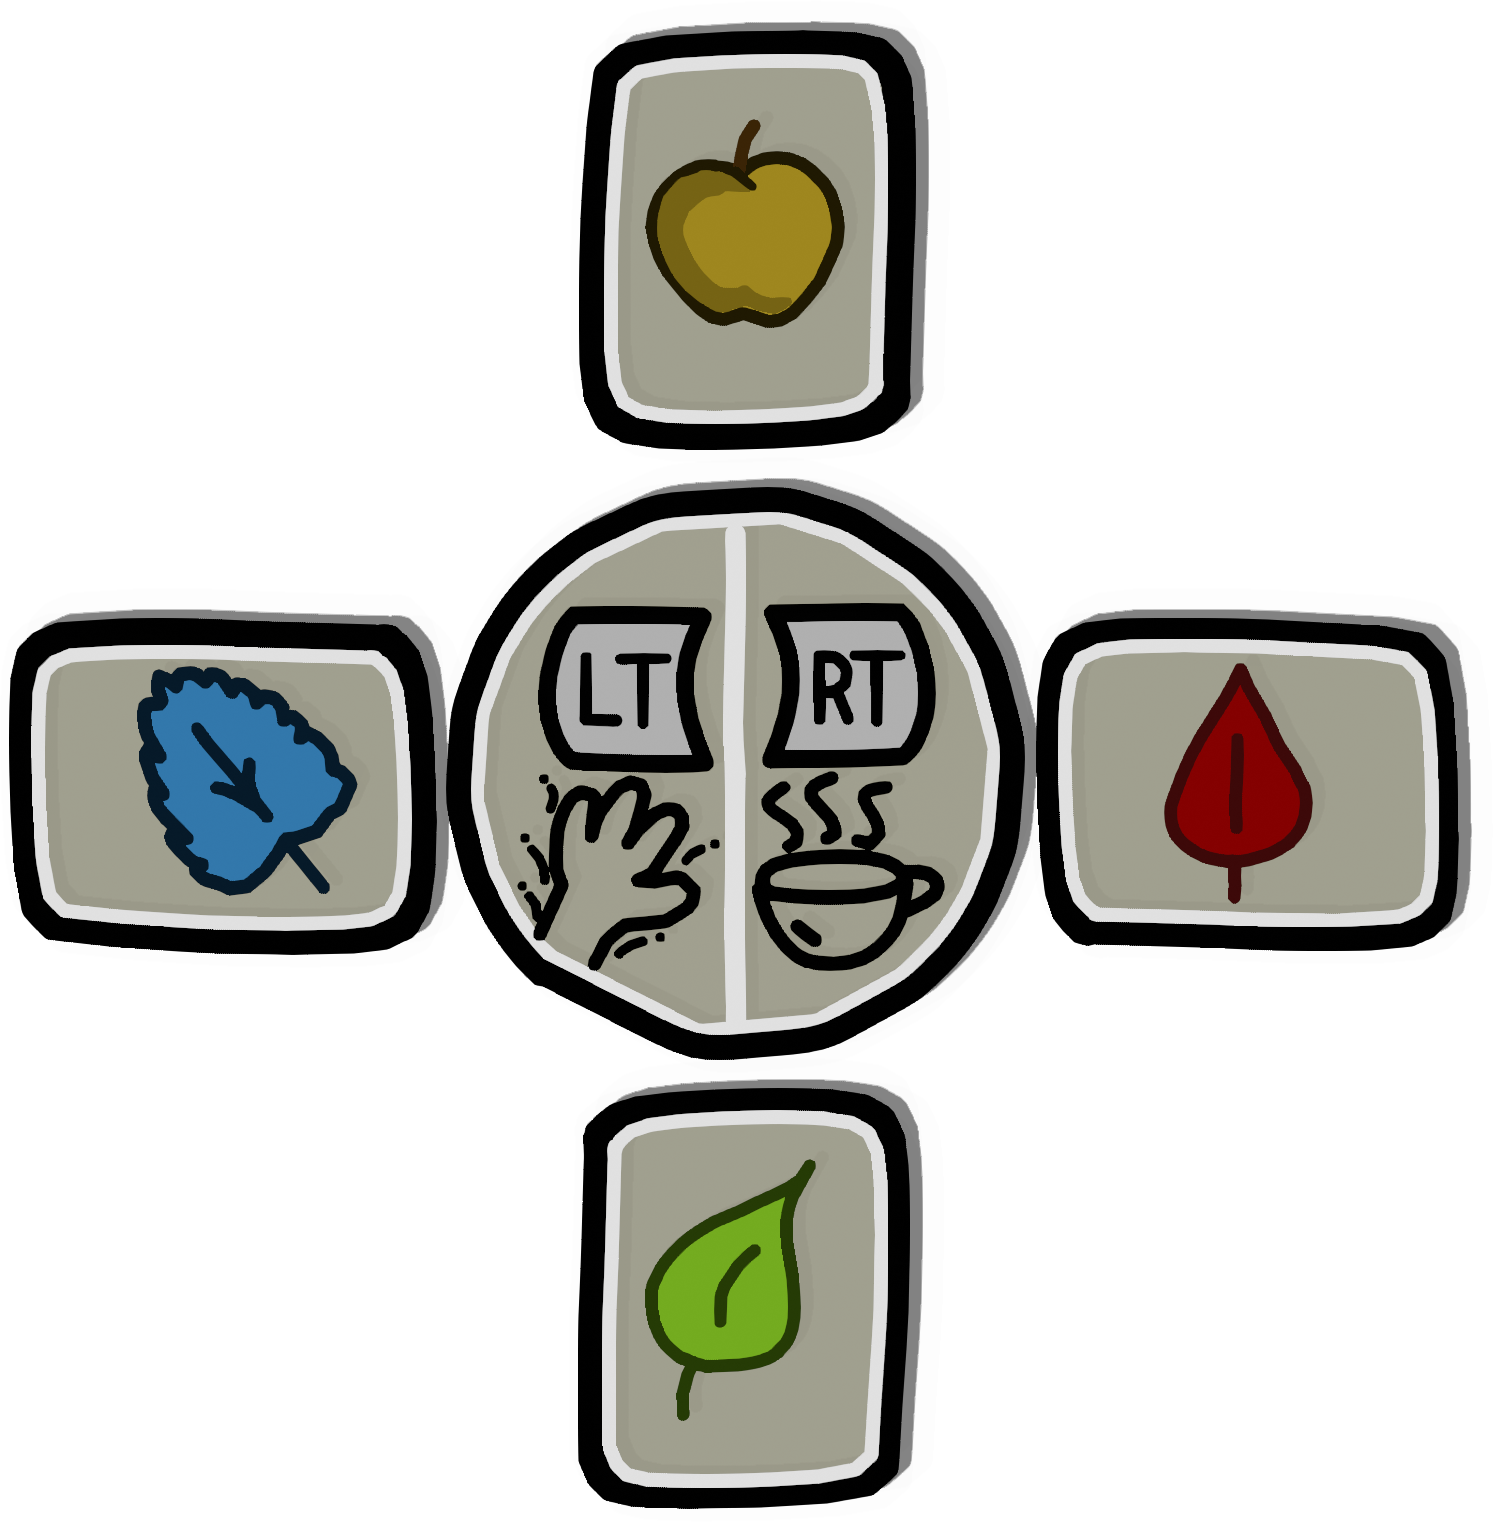
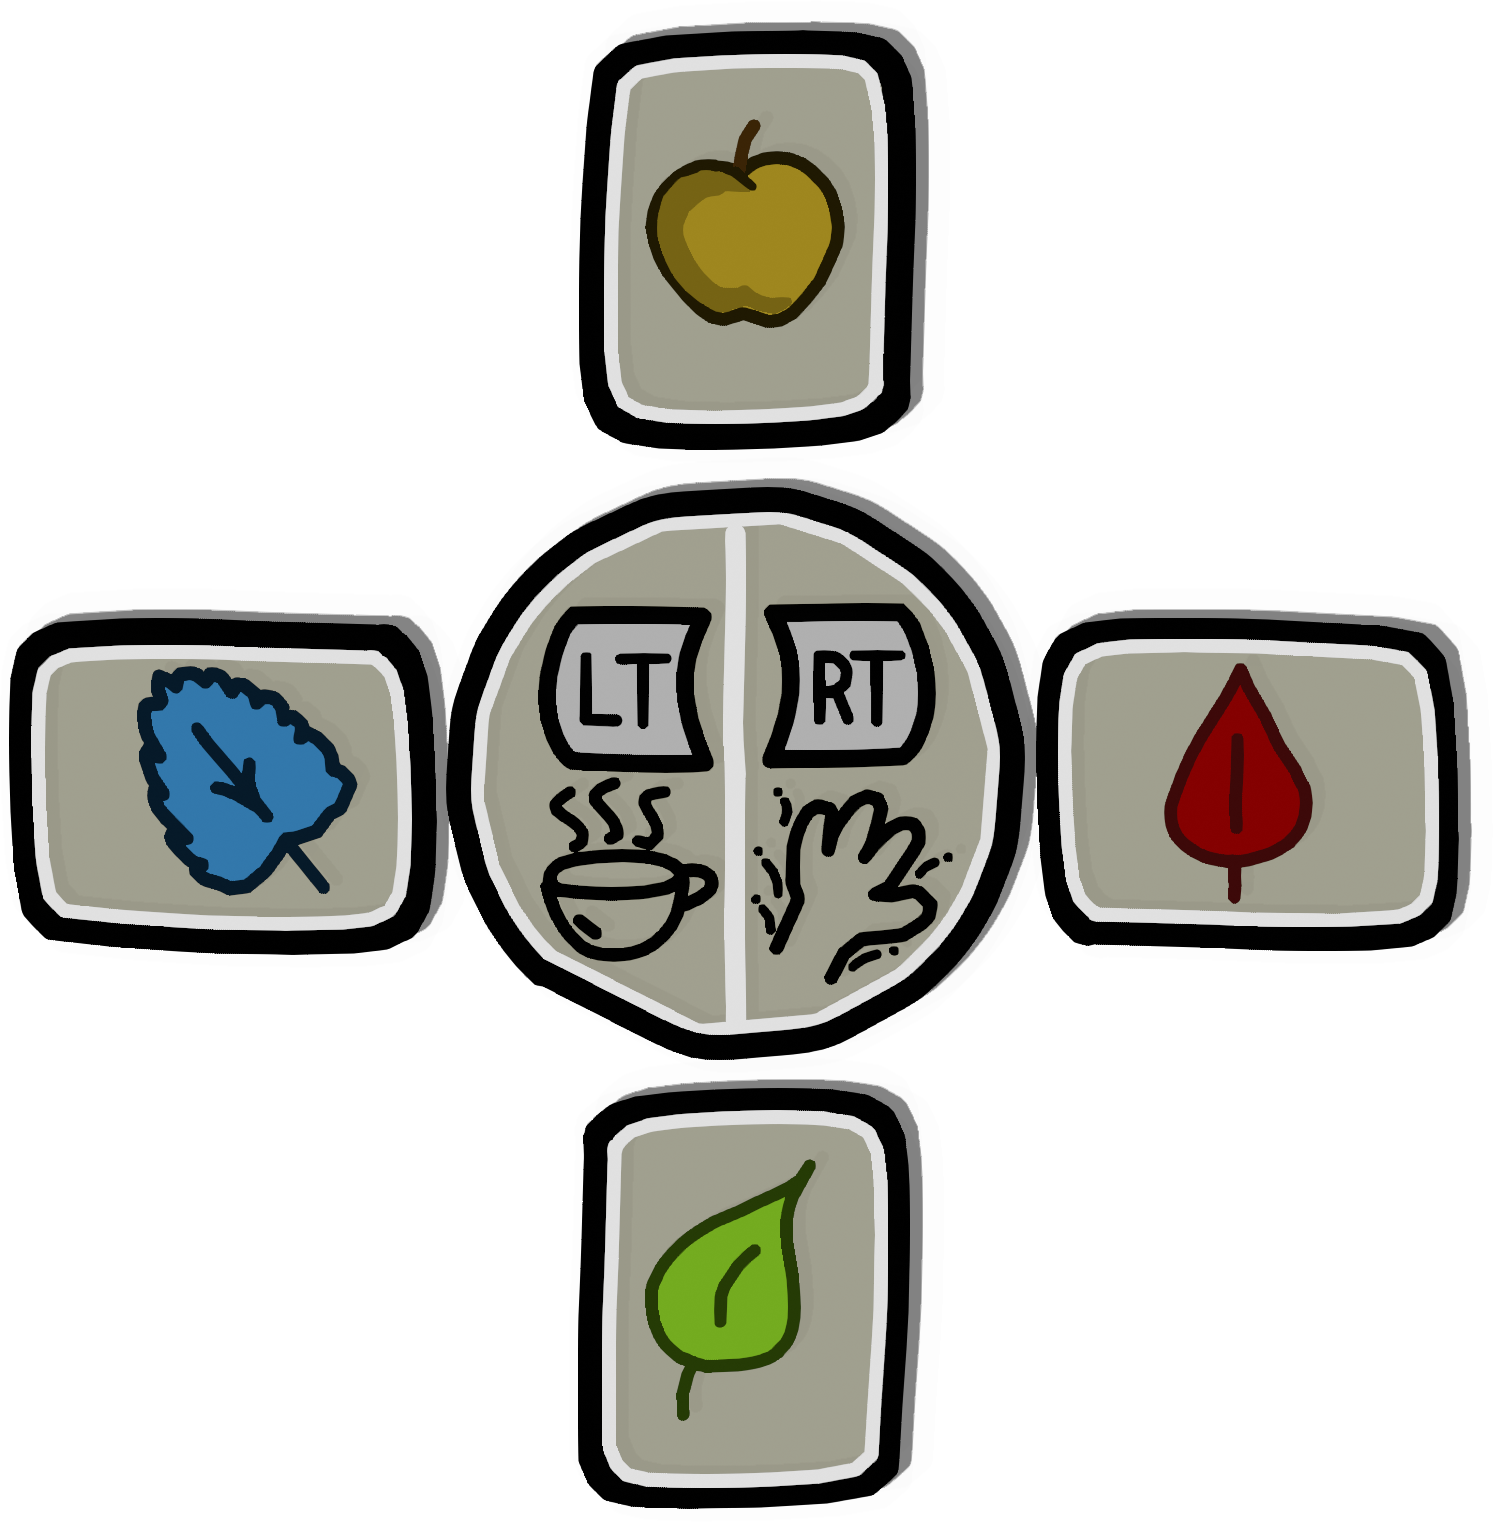
feat: HUD improvement1

Changed region(s): [[0.3389, 0.4941, 0.647, 0.6485]]

diff --git a/HUD.cs b/HUD.cs
@@ -15,32 +15,26 @@ namespace TheGame
 {
     internal class HUD
     {
-        private string _texFilename;
         private SpriteFont ScoreFont;
         private SpriteFont ItemFont;
         private SpriteFont Menu;
         private SpriteFont Menu2;
-        private Texture2D skyTex, red, healthBar, defaultItemFrame;
-        private Rectangle skyRec;
-        private int BackgroundWidth, BackgroundHeight, WindowWidth, WindowHeight;
-        private int BackgroundX, BackgroundY;
-        private Dictionary<string, int> leafs;
-        public int MenuOption = 1; 
-        //private string[] buttons;
+        private Texture2D healtColor, healthBar;
+        private Texture2D defaultItemFrame, offensiveItemFrame, teaItemFrame;
+        private Texture2D craftingTex, appleTex, meliseTex, mintTex, nettleTex;
+        private int WindowWidth, WindowHeight;
         
+        public int MenuOption = 1; 
 
-        private DateTime lastChangeTime, actualTime;
+        private Dictionary<string, int> leafs;
+        private bool isThrowing = false;
+        private bool isCrafting = false;
+        private string[] actualRecepture = new string[3];
 
-        public HUD(string texFilename, int windowWidth, int windowHeight)
+        public HUD(int windowWidth, int windowHeight)
         {
-            _texFilename = texFilename;
-            lastChangeTime = DateTime.Now;
-            actualTime = lastChangeTime;
-            BackgroundWidth = 200;
-            BackgroundHeight = 200;
             WindowWidth = windowWidth;
             WindowHeight = windowHeight;
-            skyRec = new Rectangle(0, 0, BackgroundWidth, BackgroundHeight);
 
             //buttons = new string[] { "A", "B", "X", "Y" };
         }
@@ -48,43 +42,32 @@ namespace TheGame
         public void LoadContent()
         {
             LoadedModels models = LoadedModels.Instance;
-            skyTex = models.getTexture(_texFilename);
-            red = models.getTexture("Textures/Red");
+
+            healtColor = models.getTexture("HUD/magenta");
             healthBar = models.getTexture("HUD/pasekzycia");
             defaultItemFrame = models.getTexture("HUD/default");
+            offensiveItemFrame = models.getTexture("HUD/atak");
+            teaItemFrame = models.getTexture("HUD/defens");
+
+            craftingTex = models.getTexture("HUD/robienieherbatki_preview");
+            appleTex = models.getTexture("HUD/ikona_japco_menu");
+            mintTex = models.getTexture("HUD/ikona_mieta_menu");
+            nettleTex = models.getTexture("HUD/ikona_pokrzywa_menu");
+            meliseTex = models.getTexture("HUD/ikona_melisa_menu");
+
+
             ItemFont = Globals.content.Load<SpriteFont>("ItemFont");
             ScoreFont = Globals.content.Load<SpriteFont>("ScoreFont");
             Menu = Globals.content.Load<SpriteFont>("Menu");
             Menu2 = Globals.content.Load<SpriteFont>("Menu2");
         }
 
-        public void Update(Vector3 camPos, Dictionary<string, int> leafs)
+        public void Update(Dictionary<string, int> leafs, bool crafting, bool throwing, string[] recepture)
         {
-            BackgroundX = (int)camPos.X % BackgroundWidth - BackgroundWidth;
-            BackgroundY = (int)camPos.Z % BackgroundHeight - BackgroundHeight;
-
             this.leafs = leafs;
-        }
-
-        public void DrawBackground(SpriteBatch spriteBatch)
-        {
-            int numberOfWidthBG = WindowWidth / BackgroundWidth;
-            int numberOfHeightBG = WindowHeight / BackgroundHeight;
-
-            spriteBatch.Begin();
-
-            for (int i = 0; i <= numberOfWidthBG + 2; i++)
-            {
-                skyRec.X = BackgroundX + i * BackgroundWidth;
-                for (int j = 0; j <= numberOfHeightBG + 1; j++)
-                {
-
-                    skyRec.Y = BackgroundY + j * BackgroundHeight;
-                    spriteBatch.Draw(skyTex, skyRec, Color.Gray);
-                }
-            }
-
-            spriteBatch.End();
+            this.isThrowing = throwing;
+            this.isCrafting = crafting;
+            actualRecepture = recepture;
         }
 
         public void DrawFrontground(SpriteBatch spriteBatch, int hp, List<Enemy> enemies)
@@ -99,11 +82,10 @@ namespace TheGame
 
         private void DrawHealthBar(SpriteBatch spriteBatch, int hp)
         {
+            Rectangle health = new Rectangle(WindowWidth / 2 - 325/2 + 10, 17, hp, 30);
+            Rectangle healthBar = new Rectangle(WindowWidth / 2 - 325/2, 10, 320, 48);
             
-            Rectangle health = new Rectangle(WindowWidth / 2 - 200, 15, hp * 2, 30);
-            Rectangle healthBar = new Rectangle(WindowWidth / 2 - 215, 10, 430, 40);
-            
-            spriteBatch.Draw(red, health, Color.Red);
+            spriteBatch.Draw(healtColor, health, Color.Magenta);
             spriteBatch.Draw(this.healthBar, healthBar, Color.White); 
         }
         private void DrawEnemyHealthBar(SpriteBatch spriteBatch, List<Enemy> enemies)
@@ -113,7 +95,7 @@ namespace TheGame
                 Vector3 projectedPosition = Globals.viewport.Project(e.GetPosition(),
                     Globals.projectionMatrix, Globals.viewMatrix, Matrix.Identity);
                 Rectangle rect = new Rectangle((int)projectedPosition.X - 40, (int)(projectedPosition.Y - 100), e.Health, 10);
-                spriteBatch.Draw(red, rect, Color.Red);
+                spriteBatch.Draw(healtColor, rect, Color.Red);
 
             }
             /*
@@ -141,13 +123,53 @@ namespace TheGame
         public void DrawInventory(SpriteBatch spriteBatch)
         {
             int invLenght = WindowHeight / 3;
-            Rectangle rect = new Rectangle(0, WindowHeight - invLenght, invLenght, invLenght);
+            Rectangle inv = new Rectangle(20, WindowHeight - invLenght - 20, invLenght, invLenght);
+            Rectangle rect_crafting = new Rectangle(WindowWidth / 2 - 70, WindowHeight / 2 - 170, 150, 50);
 
-            spriteBatch.Draw(defaultItemFrame, rect, Color.White);
-            spriteBatch.DrawString(ItemFont, leafs.ElementAt(0).Value.ToString(), new Vector2(invLenght / 2 + 13, WindowHeight - 40), Color.White);    // mint
-            spriteBatch.DrawString(ItemFont, leafs.ElementAt(1).Value.ToString(), new Vector2(3 * invLenght / 4, WindowHeight - invLenght / 2), Color.White);    // melise
-            spriteBatch.DrawString(ItemFont, leafs.ElementAt(2).Value.ToString(), new Vector2(17, WindowHeight - invLenght / 2), Color.White);    // nettle
-            spriteBatch.DrawString(ItemFont, leafs.ElementAt(3).Value.ToString(), new Vector2(invLenght / 2 + 13, WindowHeight - invLenght + 20), Color.White);    // apple
+
+            if (isCrafting) 
+            { 
+                spriteBatch.Draw(teaItemFrame, inv, Color.White);
+                spriteBatch.Draw(craftingTex, rect_crafting, Color.White);
+                Debug.Write(actualRecepture[0] + " " + actualRecepture[1] +  "\n");
+
+                int leafPosition = WindowWidth / 2 - 66;
+                for (int i = 0; i < 3; i++)
+                {
+                    if (actualRecepture[i] != "")
+                    {
+                        Rectangle rect = new Rectangle(leafPosition + i * 50, WindowHeight / 2 - 163, 37, 37);
+                        switch (actualRecepture[i])
+                        {
+                            case "mint":
+                                spriteBatch.Draw(mintTex, rect, Color.White);
+                                break;
+                            case "melise":
+                                spriteBatch.Draw(meliseTex, rect, Color.White);
+                                break;
+                            case "apple":
+                                spriteBatch.Draw(appleTex, rect, Color.White);
+                                break;
+                            case "nettle":
+                                spriteBatch.Draw(nettleTex, rect, Color.White);
+                                break;
+                            default:
+                                break;
+                        }
+                    }
+                }
+            } 
+            else if (isThrowing) 
+            { 
+                spriteBatch.Draw(offensiveItemFrame, inv, Color.White); 
+            } else
+            {
+                spriteBatch.Draw(defaultItemFrame, inv, Color.White);
+            }
+            spriteBatch.DrawString(ItemFont, leafs.ElementAt(0).Value.ToString(), new Vector2(invLenght / 2 + 32, WindowHeight - 55), Color.White);    // mint
+            spriteBatch.DrawString(ItemFont, leafs.ElementAt(1).Value.ToString(), new Vector2(invLenght - 12, WindowHeight - invLenght / 2 - 12), Color.White);    // nettle
+            spriteBatch.DrawString(ItemFont, leafs.ElementAt(2).Value.ToString(), new Vector2(35, WindowHeight - invLenght / 2 - 12), Color.White);    // melise
+            spriteBatch.DrawString(ItemFont, leafs.ElementAt(3).Value.ToString(), new Vector2(invLenght / 2 + 32, WindowHeight - invLenght + 44), Color.White);    // apple
         }
 
        
@@ -156,7 +178,7 @@ namespace TheGame
         {
             Rectangle rect = new Rectangle(-WindowWidth, -WindowHeight, 2 * WindowWidth, 2 * WindowHeight);
             spriteBatch.Begin();
-            spriteBatch.Draw(red, rect, Color.Black);
+            spriteBatch.Draw(healtColor, rect, Color.Black);
             spriteBatch.DrawString(Menu, "Game Paused", new Vector2(WindowWidth / 4 , WindowHeight * 1 / 10), Color.White);
             spriteBatch.DrawString(Menu2, "Press 'Start/ESC' to reasume", new Vector2(WindowWidth / 5, WindowHeight * 4 / 10), Color.White);
             spriteBatch.End();
@@ -188,7 +210,7 @@ namespace TheGame
 
             Rectangle rect = new Rectangle(-WindowWidth, -WindowHeight, 2 * WindowWidth, 2 * WindowHeight);
             spriteBatch.Begin();
-            spriteBatch.Draw(red, rect, Color.Black);
+            spriteBatch.Draw(healtColor, rect, Color.Black);
             spriteBatch.DrawString(Menu, "You fell asleep", new Vector2(WindowWidth / 3.5f, WindowHeight * 1 / 20), Color.OrangeRed);
             spriteBatch.DrawString(Menu2, "Leader board", new Vector2(WindowWidth / 10, WindowHeight * 6 / 20), one);
             spriteBatch.DrawString(Menu2, "Try again", new Vector2(WindowWidth / 10, WindowHeight * 9 / 20), two);
@@ -218,7 +240,7 @@ namespace TheGame
 
             Rectangle rect = new Rectangle(-WindowWidth, -WindowHeight, 2 * WindowWidth, 2 * WindowHeight);
             spriteBatch.Begin();
-            spriteBatch.Draw(red, rect, Color.Black);
+            spriteBatch.Draw(healtColor, rect, Color.Black);
             spriteBatch.DrawString(Menu, "Herbeart", new Vector2(WindowWidth / 3, WindowHeight * 1 / 20), Color.Gray);
             spriteBatch.DrawString(Menu2, "Start new game", new Vector2(WindowWidth / 10, WindowHeight * 7 / 20), one);
             spriteBatch.DrawString(Menu2, "Not implemented option", new Vector2(WindowWidth / 10, WindowHeight * 10 / 20), two);

diff --git a/Player/Crafting.cs b/Player/Crafting.cs
@@ -1,4 +1,5 @@
-using Microsoft.Xna.Framework.Input;
+using Assimp.Configs;
+using Microsoft.Xna.Framework.Input;
 using System;
 using System.Collections.Generic;
 using System.ComponentModel.Design;
@@ -12,6 +13,7 @@ namespace TheGame
     internal class Crafting
     {
         private string recepture;
+        private string[] recepture2 = new string[3];
         private PlayerEffectHandler playerEffects;
         private Inventory inventory;
 
@@ -29,6 +31,7 @@ namespace TheGame
                 case 'A':
                     if (inventory.checkMintLeafNumber())
                     {
+                        recepture2[recepture.Length] = "mint";
                         recepture += button;
                         inventory.removeMintLeaf();
                     }
@@ -36,6 +39,7 @@ namespace TheGame
                 case 'B':
                     if (inventory.checkNettleLeafNumber())
                     {
+                        recepture2[recepture.Length] = "nettle";
                         recepture += button;
                         inventory.removeNettleLeaf();
                     }
@@ -43,6 +47,7 @@ namespace TheGame
                 case 'X':
                     if (inventory.checkMeliseLeafNumber())
                     {
+                        recepture2[recepture.Length] = "melise";
                         recepture += button;
                         inventory.removeMeliseLeaf();
                     }
@@ -50,6 +55,7 @@ namespace TheGame
                 case 'Y': 
                     if (inventory.checkAppleLeafNumber())
                     {
+                        recepture2[recepture.Length] = "apple";
                         recepture += button;
                         inventory.removeAppleLeaf();
                     }
@@ -64,7 +70,12 @@ namespace TheGame
             }
         }
 
-        public void restartRecepture() { recepture = string.Empty; }
+        public string[] returnRecepture()
+        {
+            return this.recepture2;
+        }
+
+        public void restartRecepture() { recepture = string.Empty; recepture2 = new string[3]; }
 
         public void cleanRecepture()
         {

diff --git a/Core/Game1.cs b/Core/Game1.cs
@@ -72,7 +72,7 @@ namespace TheGame
             Globals.effectHandler = new EffectHandler(Content.Load<Effect>("ShaderOne"));
             Globals.effectHandler1 = new EffectHandler(Content.Load<Effect>("MainShader"));
             Globals.Score = 0;
-            hud = new HUD("Textures/forest2", WindowWidth, WindowHeight);
+            hud = new HUD(WindowWidth, WindowHeight);
             world = new World();
             player = new Player(new Vector3(50,0,60), "Objects/mis", "Textures/MisTexture");
             animacyjnaPacynka = new Player(new Vector3(0, 15, 30), "Objects/mis", "Textures/tekstura");
@@ -188,7 +188,7 @@ namespace TheGame
                         animationMenager.DrawAnimation(GraphicsDevice);
                         player.DrawEffectsShadow(player.GetPosition());
                         
-                        hud.Update(camera.CamPosition, player.Inventory.returnLeafs());
+                        hud.Update(player.Inventory.returnLeafs(), player.isCrafting(), player.isThrowing(), player.Crafting.returnRecepture());
                         hud.DrawFrontground(_spriteBatch, player.Health, enemies.EnemiesList);  //hud jako OSTATNI koniecznie
                         Leafs.DrawHud(_spriteBatch);//Koniecznie ostatnie nawet za Hudem
                     }

diff --git a/Player/Player.cs b/Player/Player.cs
@@ -52,7 +52,7 @@ namespace TheGame
             SetScale(1.5f);
             this.setRadius(3);
 
-            AssignParameters(200, 20, 20, 0.5f);
+            AssignParameters(300, 20, 20, 0.5f);
             playerEffects = new PlayerEffectHandler(this);
             Inventory = new Inventory();
             Crafting = new Crafting(Inventory, playerEffects);
@@ -157,6 +157,9 @@ namespace TheGame
                 lastAttackTime = actualTime;
             }
         }
+
+        public bool isCrafting() { return playerMovement.isCraftingTea; }
+        public bool isThrowing() { return playerMovement.isThrowing; }
 
         public void ThrowApple()
         {

diff --git a/Player/PlayerMovement.cs b/Player/PlayerMovement.cs
@@ -9,8 +9,8 @@ namespace TheGame
     internal class PlayerMovement
     {
         private Player player;
-        private Boolean isCraftingTea;
-        private Boolean isThrowing;
+        public Boolean isCraftingTea;
+        public Boolean isThrowing;
         private Boolean padButtonAClicked;
         private Boolean padButtonBClicked;
         private Boolean padButtonXClicked;
